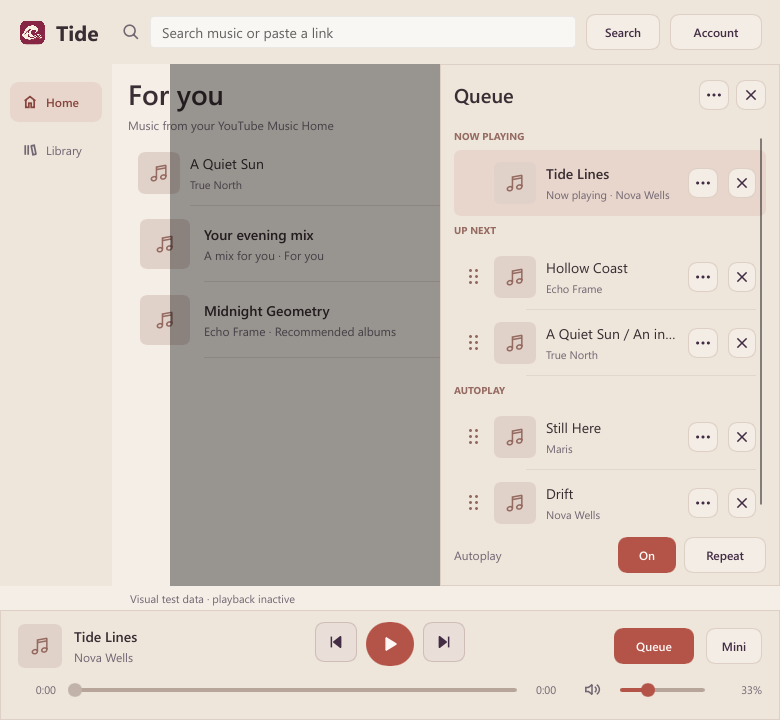
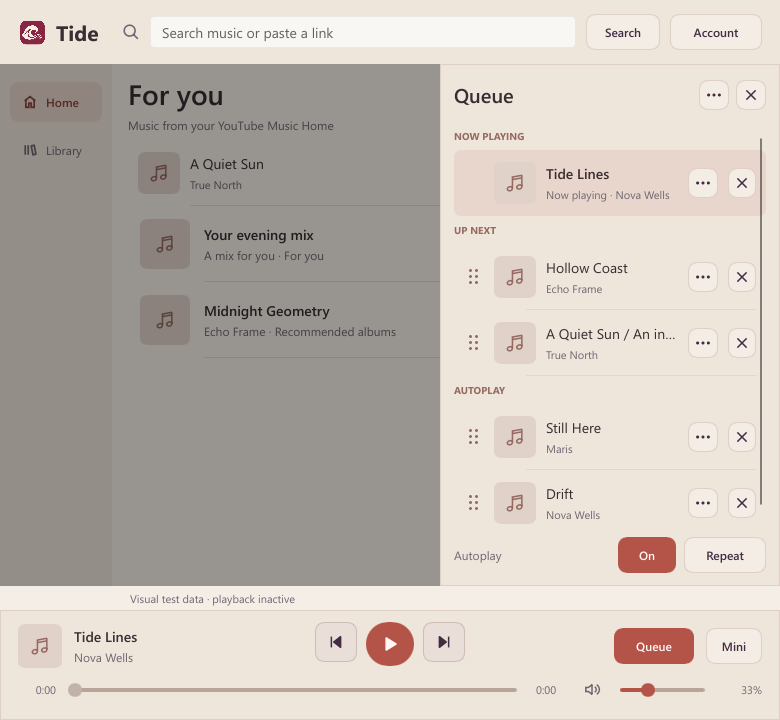
Anchor panel backdrops to remove misplaced dimming rectangles

Changed region(s): [[0.0, 0.0917, 0.2154, 0.825]]

diff --git a/docs/UI_REVIEW.md b/docs/UI_REVIEW.md
@@ -42,3 +42,6 @@ No new status panels, illustrations, background textures or animations are added
 The playback transport is centered independently of title length in full,
 compact and mini layouts. Mini uses a small expand icon in place of the wide
 Restore button; its accessible label describes returning to the full window.
+Account and compact Queue backdrops are explicitly anchored to the content area's
+left/top edges. Slint's default centering of their narrower rectangles previously
+left an unintended undimmed strip and a visible rectangular boundary.
